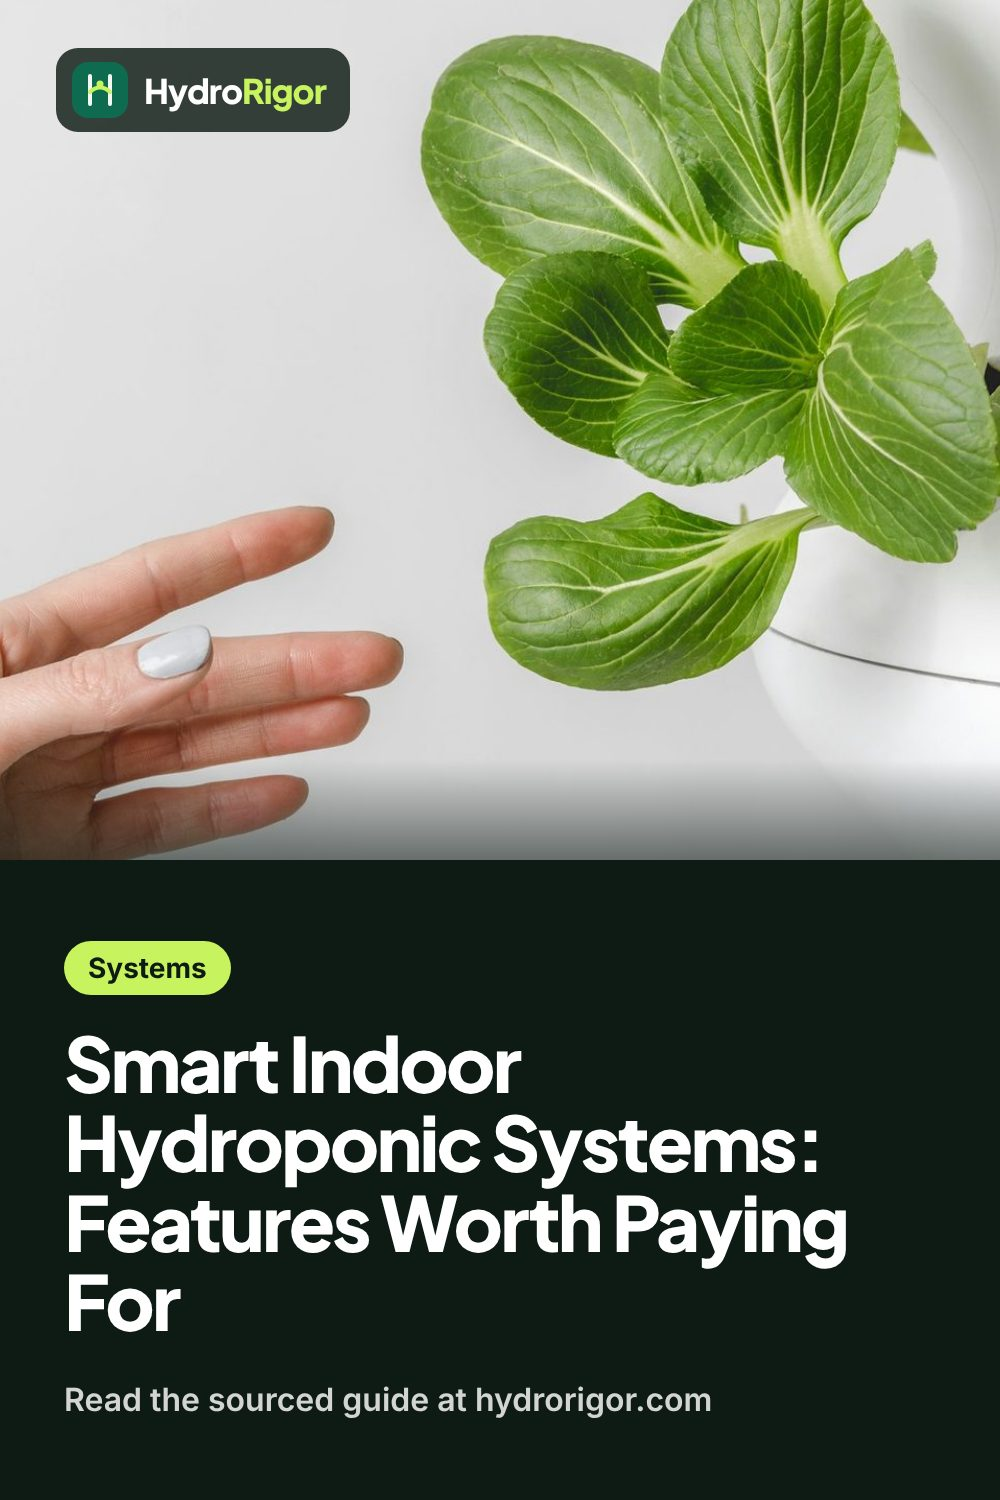
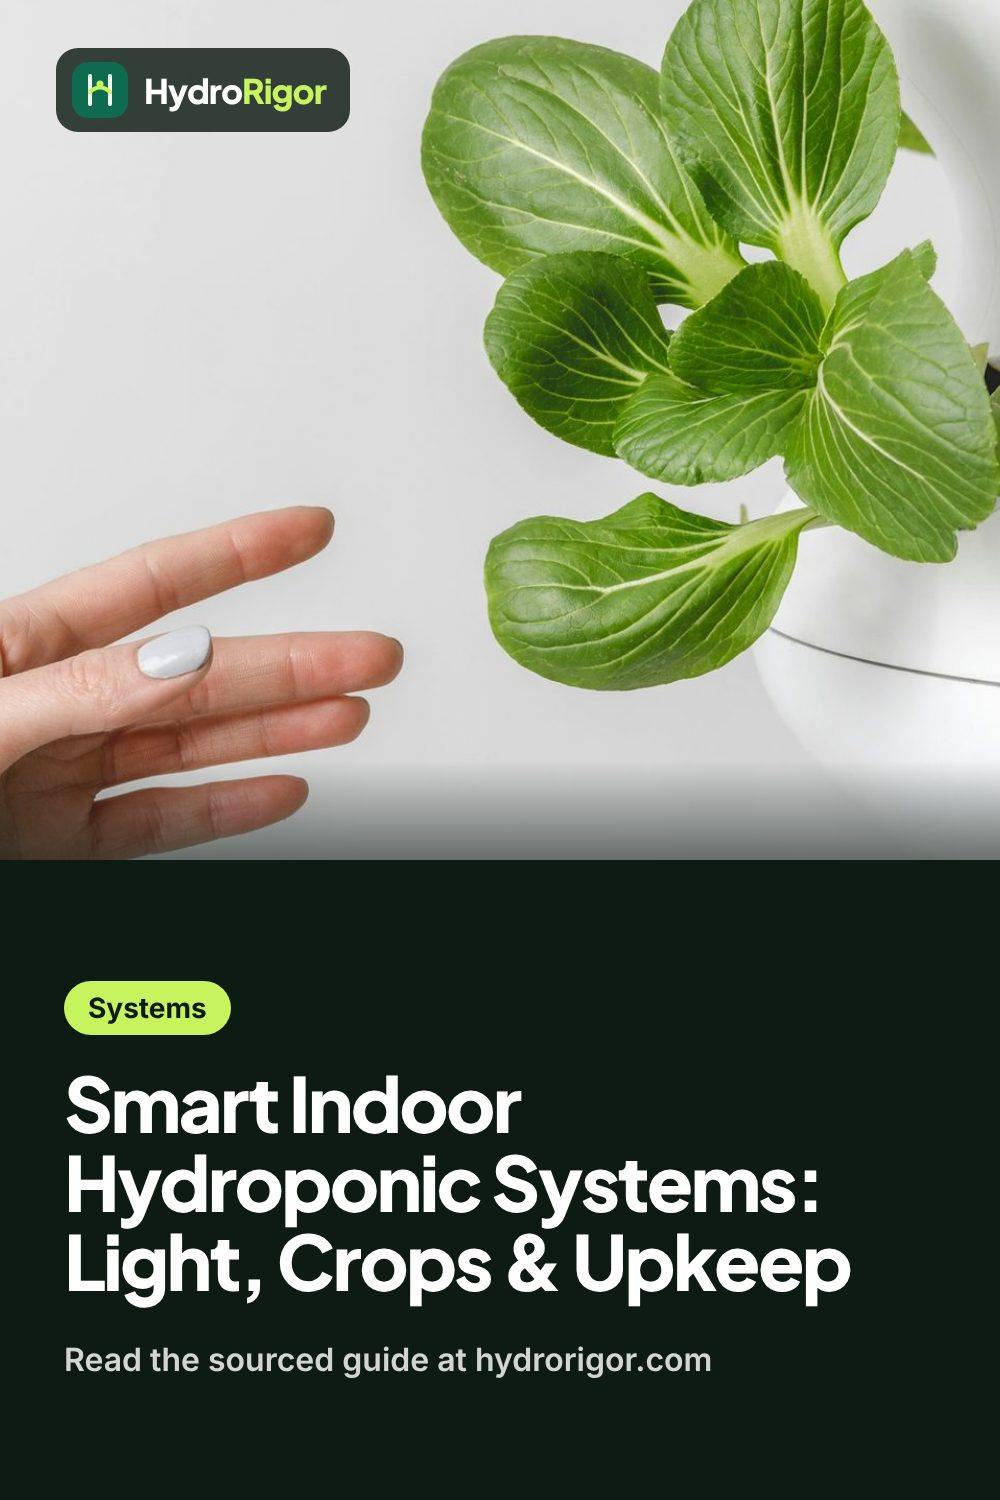
Rebuild smart indoor hydroponic systems guide: light, crops and upkeep (#77)
Claude-Session: https://claude.ai/code/session_011zSWQtBbGHU23zkk2SYz6C

Changed region(s): [[0.062, 0.6133, 0.868, 0.9507]]

diff --git a/src/data/editorial-sources/m06.ts b/src/data/editorial-sources/m06.ts
@@ -675,6 +675,33 @@ export const m06EditorialSources = [
     sourceType: 'university-extension',
     locator: 'Mineral-fertilizer trial: 24 lettuce varieties in NFT and CFT at EC 1.3, 2.0, 2.9 and 3.9 dS/m, harvested after 4 weeks; growth higher at 1.3 and 2.0 and lower at 2.9 and 3.9 (osmotic stress); optimal EC unaffected by system or variety; recommends EC 1.3 dS/m for lettuce in both systems. No organic fertilizers tested',
   },
+  {
+    id: 'sfa-home-growing-kit',
+    title: 'Choosing an Indoor Home Growing Kit',
+    publisher: 'Singapore Food Agency (sfa.gov.sg; no date or author shown)',
+    url: 'https://www.sfa.gov.sg/docs/default-source/default-document-library/choosing-an-indoor-hydroponics-home-growing-kit.pdf',
+    accessedDate: '2026-11-15',
+    sourceType: 'government',
+    locator: '01 How to choose: typical kit is a reservoir with cover, growing cups and grow lights, roots in the reservoir; without a reservoir too little water could reduce growth by 20–30%; plant food at least once a week; dedicated top-up point, water-level window or sensor, adjustable light height (leaves may scorch if they touch), easy dismantling (wash at least once every three months; vertical or hanging systems hard to wash). 02 Light requirements: minimum PPFD seedlings and microgreens 100–150, lettuce 150–200, other leafy vegetables such as pak choi and herbs 200–400, fruited vegetables 400–700 µmol/m²/s, based on typically 12 hours of light; rule of thumb cool white full-spectrum light of at least 200 µmol/m²/s at 10 cm from the plant surface; low PPFD gives tall weak stems that fall over, higher PPFD compact lettuce. 03 Maintenance: daily checks (water level, moist substrate, mosquito breeding, nutrients per manufacturer, light timer, dried leaves, cover tight, circulation working); every three months dismantle and clean, check electrical parts',
+  },
+  {
+    id: 'ifas-tabletop-hydroponics',
+    title: 'Tabletop Hydroponics Tutorial',
+    publisher: 'UF/IFAS Extension Gardening Solutions (no author or date shown)',
+    url: 'https://gardeningsolutions.ifas.ufl.edu/design/outdoor-living/tabletop-hydroponics/',
+    accessedDate: '2026-11-15',
+    sourceType: 'university-extension',
+    locator: 'Setting Up Your Hydroponics Unit (pod-based unit): fill until the water level indicator reaches the top, avoid well or soft water (can damage the system and affect growth), keep the float at the top without overfilling; most systems have a built-in timer running the light 16 hours per day from when it is plugged in; remove the domes once sprouting starts, 1–2 weeks; always a few inches between the plants and the lamp; follow each system’s directions. Results: herbs in as few as 3–4 weeks, lettuce within 40 days',
+  },
+  {
+    id: 'unl-lunchbox-hydroponics',
+    title: 'Lunchbox Hydroponics (G2358)',
+    publisher: 'Nebraska Extension, University of Nebraska–Lincoln (S. A. Adams), 2023, peer reviewed',
+    url: 'https://extensionpubs.unl.edu/publication/g2358/2023/html/view',
+    accessedDate: '2026-11-15',
+    sourceType: 'university-extension',
+    locator: 'Construction Method: place in bright light (windowsill or grow light) at comfortable room temperatures of 65–78 °F; keep at least 1/2 in of solution; harvest in as little as six weeks. Nutrient Solution: lettuce 125–150 ppm N; never more than the labeled fertilizer rate. Plant Care Tips: exclude light from the solution to limit algae. No pH, EC or light-intensity figures',
+  },
 ] as const satisfies readonly M06EditorialSource[];
 
 export const m06EditorialSourceById = new Map(

diff --git a/src/data/m06-content.ts b/src/data/m06-content.ts
@@ -42,7 +42,7 @@ const items = [
   [22, 'reviews', 'reviews', 'General Hydroponics Nutrients: How the System Works', 'general-hydroponics-nutrients', 'transactional research', 'general hydroponics hydroponic nutrients', 'METRIC_NOT_REVERIFIED', undefined, undefined, ['gh-floraseries', 'gh-floraseries-program'], ['/tools/nutrient-mixing-calculator/']],
   [23, 'articles', 'best', 'Hydroponic Systems for Sale: 9 Checks Before You Buy', 'hydroponic-systems-for-sale', 'transactional research', 'hydroponic system sale', 'METRIC_NOT_REVERIFIED', undefined, undefined, ['osu-hydro-hints-overview', 'osu-hydro-hints-dwc', 'osu-hydro-hints-buckets', 'osu-hydro-hints-nft', 'osu-hydro-hints-ebb-flow', 'ifas-kratky-set-and-forget', 'uky-hydroponic-lettuce', 'purdue-supplemental-light-lettuce', 'okstate-vertical-tower-hla6724', 'osu-ph-ec-guide', 'ifas-lettuce-small-systems', 'tennessee-fruiting-crops', 'illinois-hydroponics-at-home', 'vt-system-crop-comparisons', 'touliatos-vertical-lettuce-2016', 'umass-ph-ec-pens', 'msu-calibrate-ph-ec', 'purdue-inhouse-ph-ec', 'mu-hydroponic-farming', 'uga-home-hydroponics', 'unh-home-hydroponics'], ['/tools/ph-ec-targets/', '/tools/nutrient-mixing-calculator/']],
   [24, 'articles', 'best', 'Best Hydroponic System for Home Growers: DWC, NFT or Drip?', 'hydroponic-system-for-home-growers', 'commercial research', 'what is the best hydroponic system', 'METRIC_NOT_REVERIFIED', undefined, undefined, ['ifas-kratky-set-and-forget', 'kratky-noncirculating-lettuce', 'vt-system-crop-comparisons', 'ifas-lettuce-small-systems', 'osu-hydro-hints-overview', 'osu-hydro-hints-dwc', 'osu-hydro-hints-buckets', 'osu-hydro-hints-nft', 'osu-hydro-hints-ebb-flow', 'okstate-hydroponics-hla6442'], ['/tools/ph-ec-targets/']],
-  [25, 'articles', 'systems', 'Smart Indoor Hydroponic Systems: Features Worth Paying For', 'smart-indoor-hydroponic-systems', 'transactional research', 'smart indoor hydroponic system', 'METRIC_NOT_REVERIFIED', undefined, undefined, ['mu-hydroponic-farming', 'osu-ph-ec-guide'], []],
+  [25, 'articles', 'systems', 'Smart Indoor Hydroponic Systems: Light, Crops & Upkeep', 'smart-indoor-hydroponic-systems', 'transactional research', 'smart indoor hydroponic system', 'METRIC_NOT_REVERIFIED', undefined, undefined, ['sfa-home-growing-kit', 'ifas-tabletop-hydroponics', 'unl-lunchbox-hydroponics', 'uky-hydroponic-lettuce', 'purdue-supplemental-light-lettuce', 'gomez-basil-small-scale-2020', 'ifas-lettuce-small-systems', 'osu-ph-ec-guide', 'umass-ph-ec-pens', 'msu-calibrate-ph-ec', 'illinois-hydroponics-at-home', 'osu-hydro-hints-nft', 'ifas-kratky-set-and-forget', 'mu-hydroponic-farming'], ['/tools/ph-ec-targets/']],
 ] as const;
 
 export const m06ContentItems: readonly M06ContentItem[] = items.map(([

diff --git a/.agent/state/CURRENT_HANDOFF.md b/.agent/state/CURRENT_HANDOFF.md
@@ -84,6 +84,8 @@ Updated: 2026-11-15
 Guides published by automated runs under `HydroRigor Editorial`. When Najeeb has read one
 and approves, switch its byline to `Najeeb`.
 
+- `/systems/smart-indoor-hydroponic-systems/` — "Smart Indoor Hydroponic Systems: Light, Crops & Upkeep" (rebuild, 2026-11-15; Pinterest row `docs/marketing/pinterest/pins-smart-indoor-systems-2026-12-03.csv`, upload by Dec 3). Direct answer (herbs, lettuce, greens; light first), feature table (what each smart feature does and does not do), PPFD × hours → DLI table and chart showing that about 210 µmol/m²/s for 16 h reaches Kentucky's lettuce DLI 12, crop-fit table with the UF basil small-unit trial, sensor calibration and questions to ask, upkeep diagram, nine-step setup, troubleshooting and FAQ; two new diagrams (DLI check; upkeep schedule). New sources read 2026-11-15: Singapore Food Agency kit guide (government; PPFD minimums by crop, 200 µmol/m²/s at 10 cm, clean every three months, daily checks), UF/IFAS Gardening Solutions tabletop tutorial (16-hour timer, herbs 3–4 weeks, lettuce within 40 days, no well or soft water) and Nebraska Extension G2358 (room 65–78 °F). Source conflict shown: light hours (UF/IFAS 16, Singapore about 12, Illinois 6–8). The Singapore guide's wattage-to-PPFD formula was left out because it is not physically reliable. Gaps stated: no source tests apps, sensors or proprietary pods; no brands, prices or energy figures. A peer-reviewed paper on an indoor farming appliance's energy use was found but could not be opened. Photo kept (bok choy in an indoor unit).
+
 - `/nutrients-water/organic-hydroponic-nutrients/` — "Organic Hydroponic Nutrients: Yields, Problems & Fixes" (rebuild, 2026-11-15; Pinterest row `docs/marketing/pinterest/pins-organic-nutrients-2026-12-02.csv`, upload by Dec 2). Direct answer with yields versus mineral nutrients from three trials (Dutch bucket lettuce about 90–91%, tower strawberries about 15% less, NFT lettuce 23.5–40.3%), the four causes (ammonium and nitrite, biofilm and oxygen, calcium and magnesium shortfall, inoculant did not help) and fixes, comparison table, nine-step setup, troubleshooting and FAQ; two new diagrams (yield chart; problems and fixes). New sources: Alneyadi et al. 2024 (the Penn State-listed study, now with figures read from the open-access PDF on 2026-11-15; the 91%/90% are labelled arithmetic), Liu et al. 2025 HortScience (from the research pack), Purdue HO-309-W. Gaps stated on the page: no organic-specific EC target, no trial of organic nutrients in DWC or Kratky, no brand comparison. A 2022 Ninth Circuit ruling upholding USDA organic certification of hydroponic operations was found (Food Dive, 2022-09-23) but left out because it is not a university source; add it if Najeeb wants a news citation. Photo kept (seedling roots in hand).
 - `/crops/hydroponic-tomato-seeds/` — "Hydroponic Tomato Seeds: Best Varieties & How to Start Them" (rebuild, 2026-11-14; Pinterest row `docs/marketing/pinterest/pins-tomato-seeds-2026-12-01.csv`, upload by Dec 1). Seed chosen by mature size (micro-dwarf, compact, determinate, indeterminate), University of Florida micro-dwarf trial table, packet codes, seed-starting steps and timeline; two new sources (UF/IFAS HS987, HortScience 2000).
 - `/best/hydroponic-ph-meter/` — "pH Meter for Hydroponics: How to Choose & Calibrate" (new guide, plan ID 66, 2026-11-14). Written from the research pack only (web fetches were not available in this run): feature checklist, two-point calibration with pH 7.01 and 4.01, calibration frequency, storage, troubleshooting; no products or current prices; gaps stated (no accuracy or probe-life figures in the sources). Reuses the measuring-beaker photo until a pH meter photo exists.

diff --git a/.agent/state/CURRENT_MILESTONE.md b/.agent/state/CURRENT_MILESTONE.md
@@ -88,8 +88,8 @@ impressions in 28 days).
         add them only after an affiliate programme is approved.
 19. [x] `/crops/hydroponic-tomato-seeds/` — rebuilt 2026-11-14 ("Hydroponic Tomato Seeds: Best Varieties & How to Start Them"). hydroponic tomatoes seeds (480, difficulty 16).
 20. [x] `/nutrients-water/organic-hydroponic-nutrients/` — rebuilt 2026-11-15 ("Organic Hydroponic Nutrients: Yields, Problems & Fixes"). "organic hydroponic nutrients" 390 / 18.
-21. [ ] `/systems/smart-indoor-hydroponic-systems/` — rebuild ("click and grow" 5,400 / 35 is the
-        nearest brand demand). Move to the top of the queue if Click & Grow approves the owner.
+21. [x] `/systems/smart-indoor-hydroponic-systems/` — rebuilt 2026-11-15 ("Smart Indoor Hydroponic Systems: Light, Crops & Upkeep"); no brands or product picks
+        ("click and grow" 5,400 / 35 is the nearest brand demand; add named units only if Click & Grow approves the owner).
 22. [ ] Remaining launch-guide rebuilds, one per run: `/nutrients-water/how-to-mix-hydroponic-nutrients/`
         ("mixing hydroponic nutrients" 140 / 19), `/nutrients-water/powder-vs-liquid-hydroponic-nutrients/`
         ("hydroponic nutrients powder" 170 / 19), `/nutrients-water/hydroponic-nutrients-for-vegetables/`
